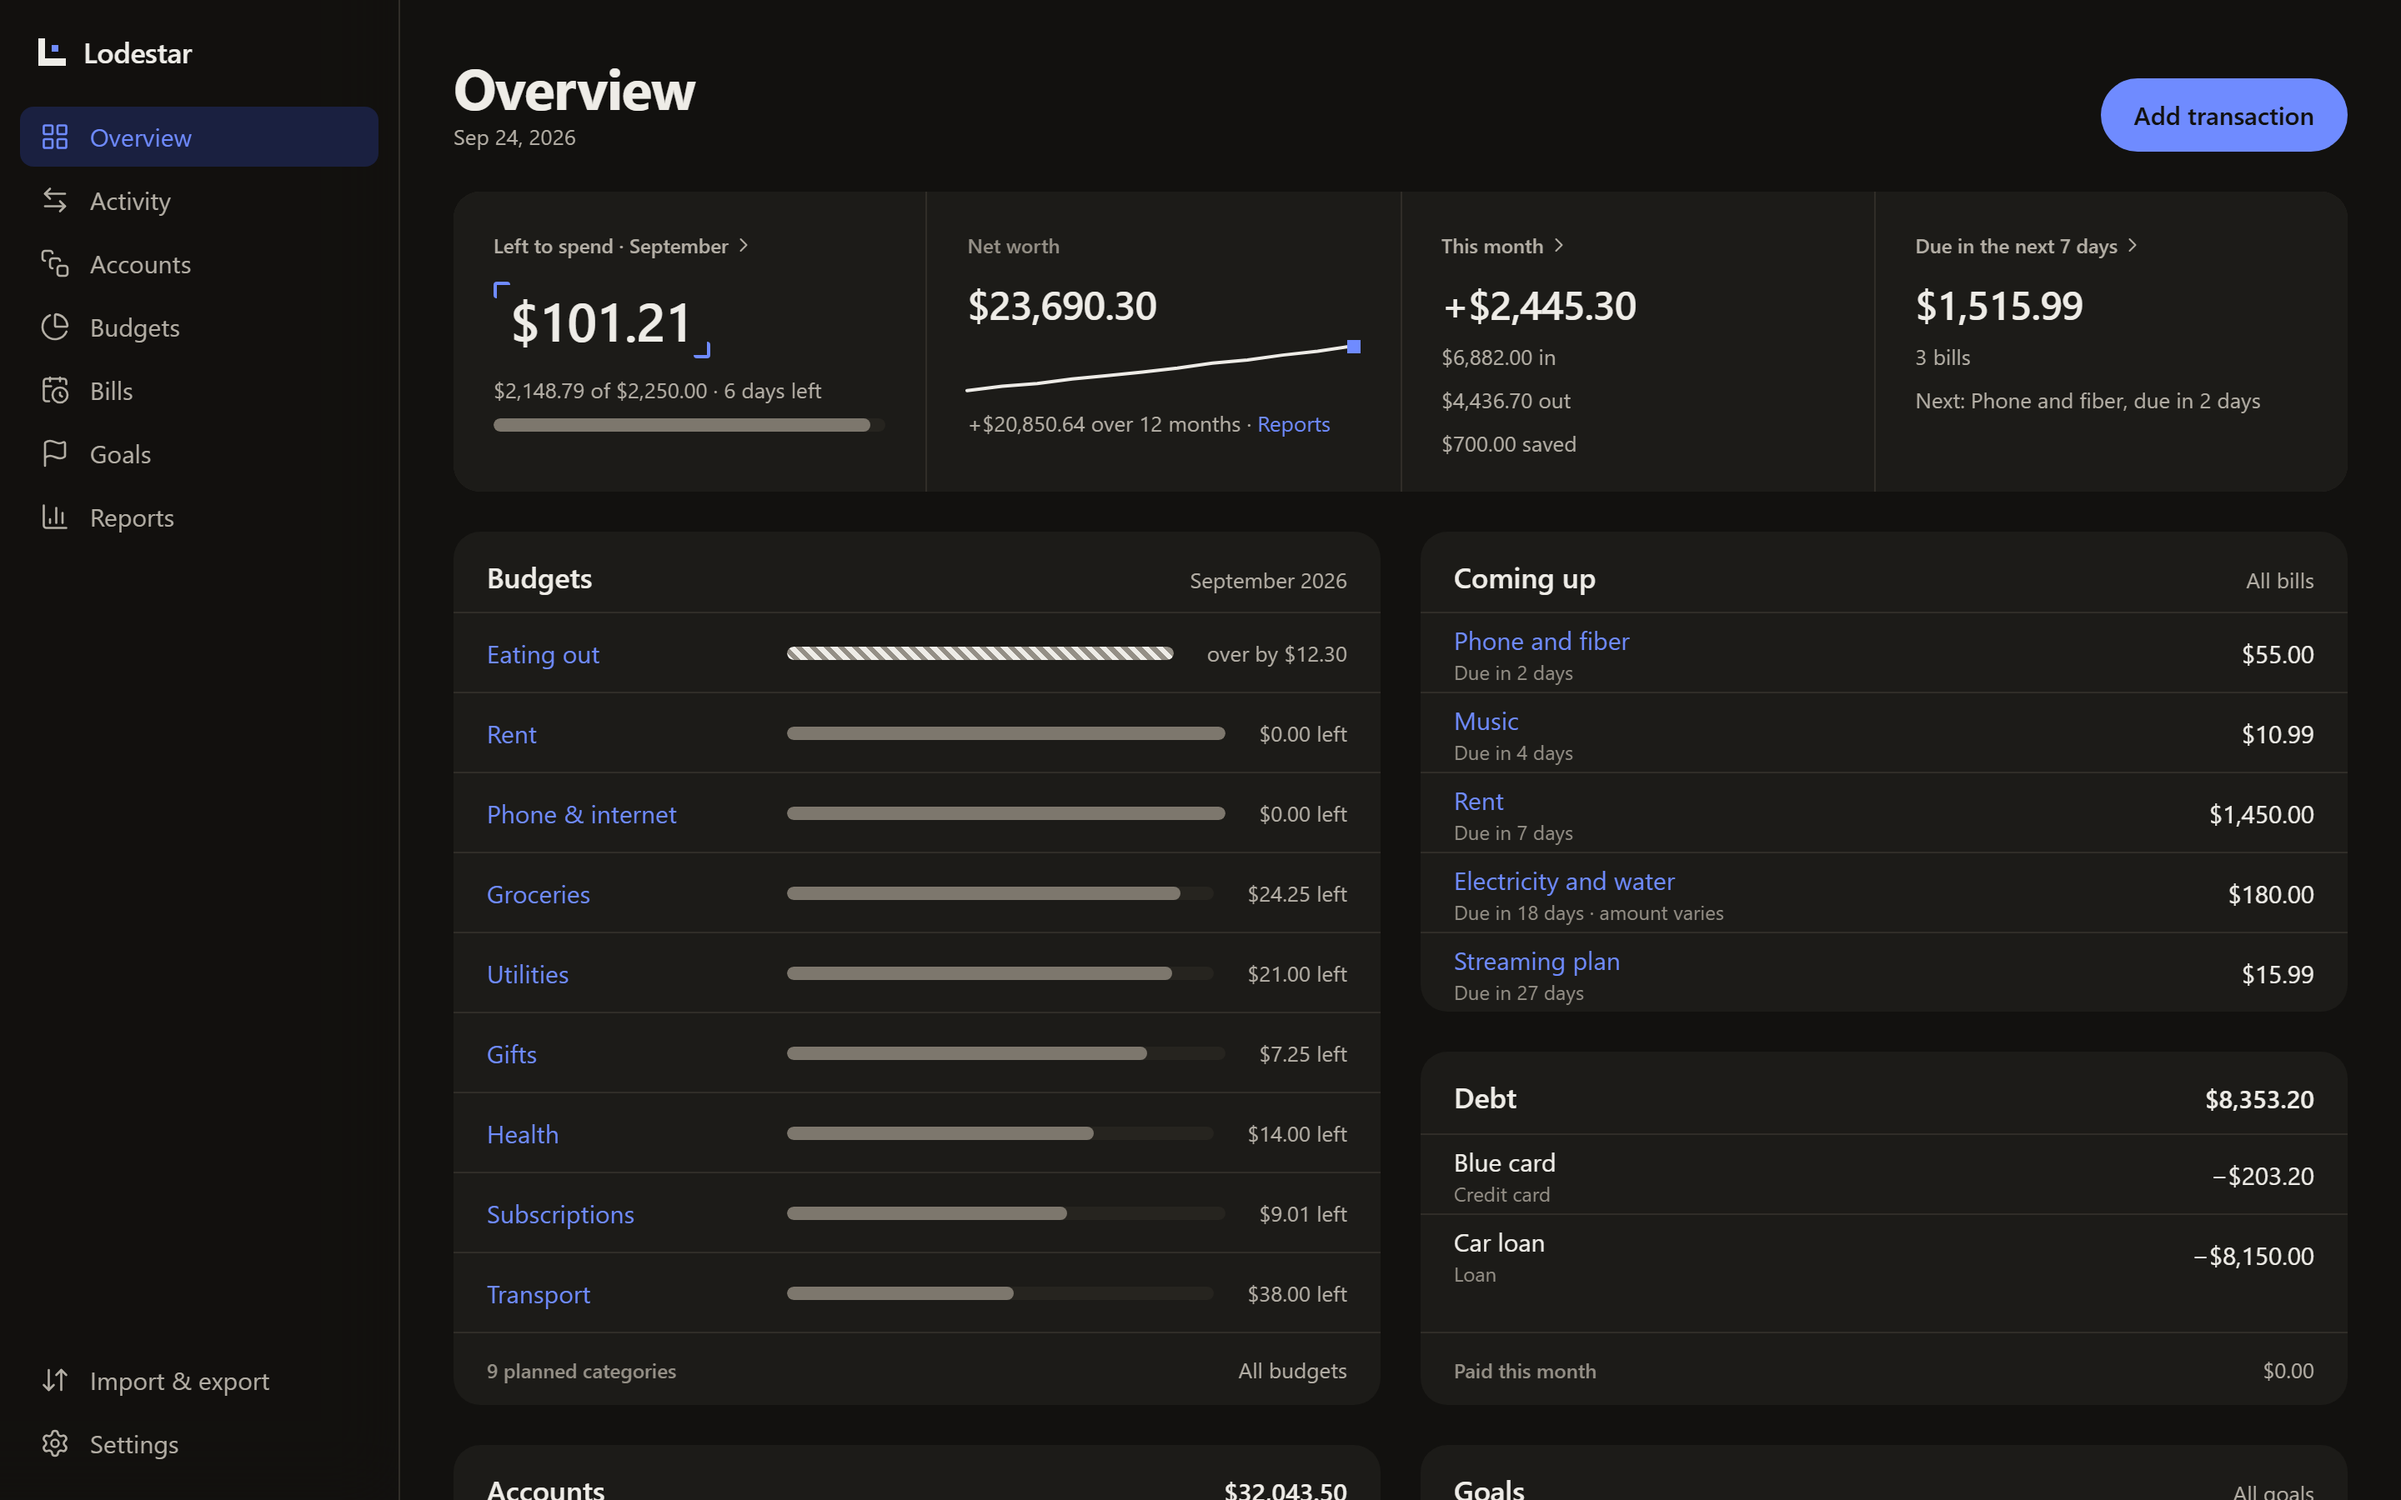
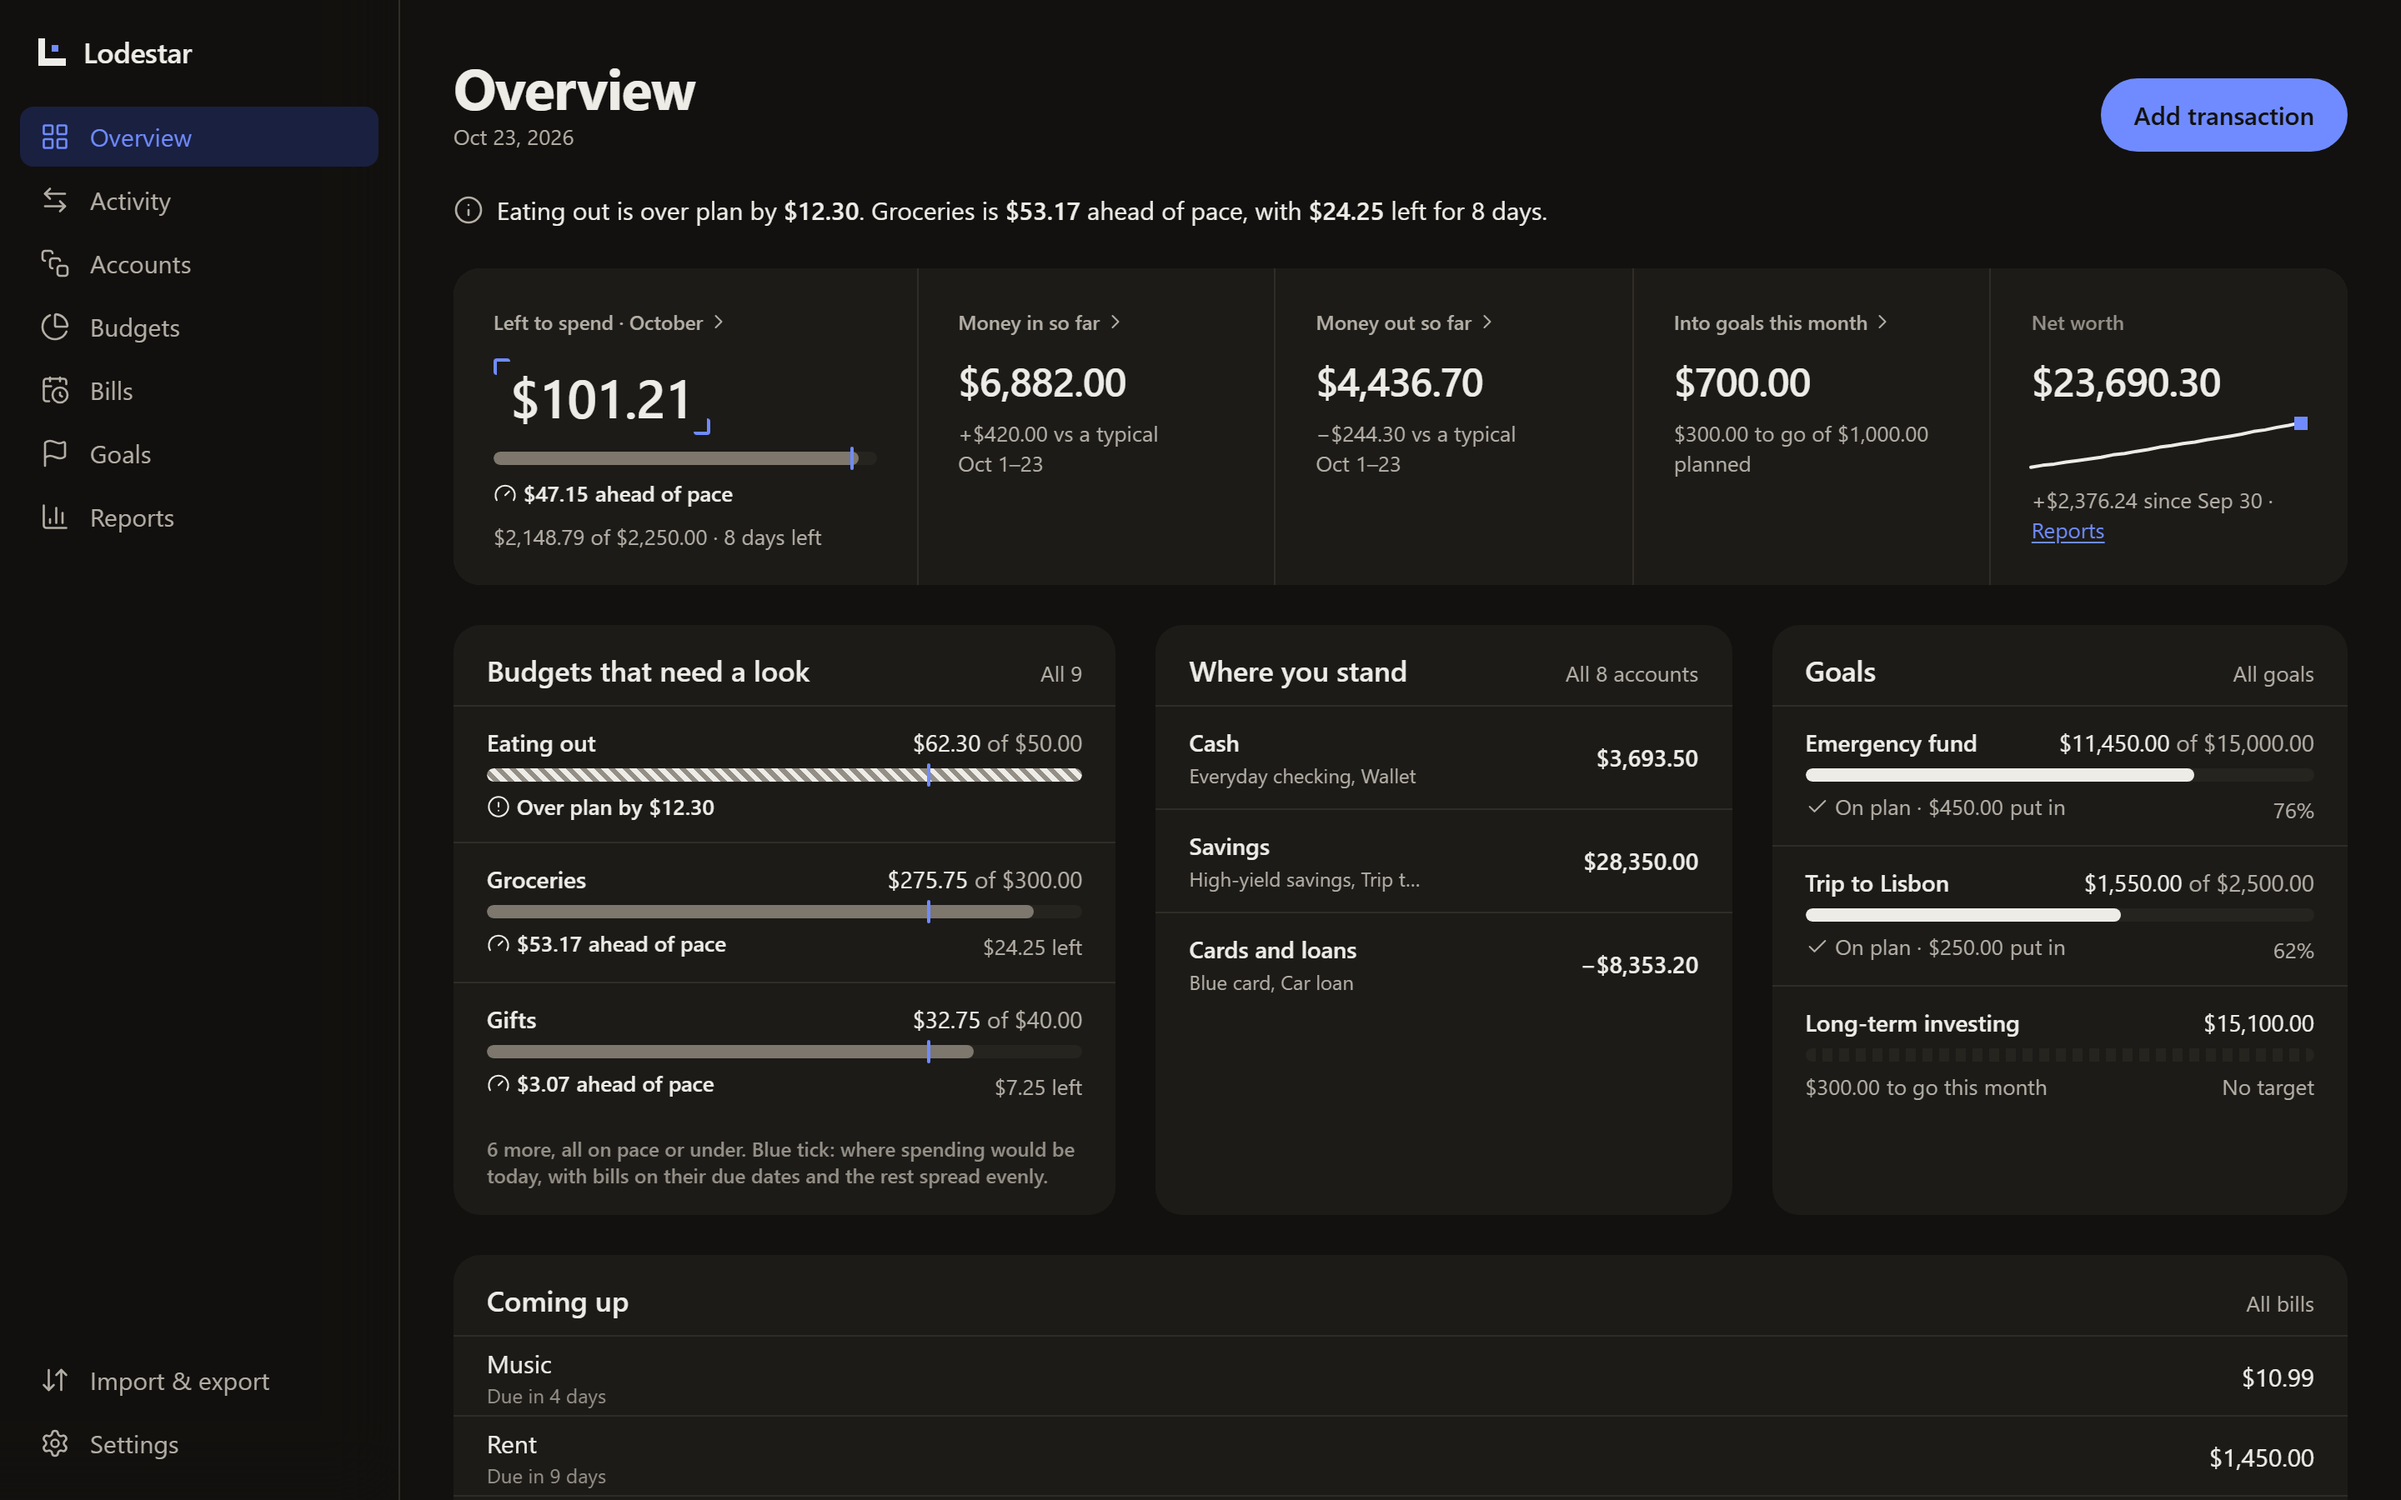
Refresh the README screenshots on a pinned mid-month day
E2E_TODAY pins the stub's today and pinClock the browser's, and the
README config sets it to the 23rd, so the Overview's pace reads the same
whatever day the pictures are retaken. The stub's budget_pace now counts
bills on their due dates, as the real function does, so rent paid on the
1st is on pace. The README's person has a second year, goal transfers,
and bills that match their payments.

diff --git a/scripts/readme/data.ts b/scripts/readme/data.ts
@@ -1,9 +1,10 @@
-import { emptyTables, USER_ID, type Tables } from '../../e2e/fixtures';
+import { emptyTables, stubNow, USER_ID, type Tables } from '../../e2e/fixtures';
 
 // A made-up person's money, rich enough to fill every screen for the README.
 // Synthetic throughout: no real names, accounts or amounts.
 
-const now = new Date();
+// The screenshots pin today to the 23rd (see playwright.config.ts).
+const now = stubNow;
 const monthStart = (offset: number) => {
   const date = new Date(Date.UTC(now.getUTCFullYear(), now.getUTCMonth() - offset, 1));
   return date.toISOString().slice(0, 10);
@@ -11,6 +12,8 @@ const monthStart = (offset: number) => {
 const thisMonth = monthStart(0);
 const day = (d: number) => `${thisMonth.slice(0, 8)}${String(Math.min(d, now.getUTCDate())).padStart(2, '0')}`;
 const inDays = (n: number) => new Date(now.getTime() + n * 86_400_000).toISOString().slice(0, 10);
+// The same day next month, for a bill already paid this month.
+const nextMonth = (d: number) => `${monthStart(-1).slice(0, 8)}${String(d).padStart(2, '0')}`;
 
 const stamp = { created_at: '2026-01-01T00:00:00Z', updated_at: '2026-01-01T00:00:00Z' };
 
@@ -67,6 +70,14 @@ const txnList: Txn[] = [
   [1, 'income', 323100, 'Payroll', null, 'acc-chk', 'cat-salary'],
 ];
 
+// Payments made through Mark as paid, by description.
+const paidBills: Record<string, string> = {
+  Rent: 'bill-1',
+  'Phone and fiber': 'bill-2',
+  'Electricity and water': 'bill-3',
+  'Streaming plan': 'bill-4',
+};
+
 // Planned and spent this month, per category.
 const budgetList: [category: string, planned: number, spent: number][] = [
   ['cat-rent', 145000, 145000],
@@ -80,12 +91,16 @@ const budgetList: [category: string, planned: number, spent: number][] = [
   ['cat-gifts', 4000, 3275],
 ];
 
-// Twelve months of money in and out, newest first, as the view returns them.
-const flow = [
+// Twelve months of money in and out, newest first, as the view returns them,
+// then the year before at a lower salary, so Reports has a period to compare.
+const recent = [
   [688200, 443670], [646200, 468100], [662400, 431900], [646200, 512300],
   [701500, 455800], [646200, 470200], [646200, 489600], [598000, 452100],
   [646200, 438700], [612400, 501200], [646200, 447300], [580000, 466900],
 ];
+const flow = [...recent, ...recent.map(([moneyIn, moneyOut], k) => [moneyIn - 31000 - (k % 3) * 4000, moneyOut - 12000 + (k % 4) * 5000])];
+// Into goal accounts each month: the two monthly transfers, less in the first year.
+const toGoalsAt = (offset: number) => (offset < 12 ? 70000 : 55000);
 
 export function readmeTables(): Tables {
   const tables = emptyTables();
@@ -113,7 +128,7 @@ export function readmeTables(): Tables {
     id: `0c000000-0000-4000-8000-${String(index + 1).padStart(12, '0')}`,
     user_id: USER_ID, kind, occurred_on: day(d), amount_minor: amount, from_account_id: from, to_account_id: to,
     category_id: category, category_kind: category ? categoryList.find((c) => c[0] === category)![2] : null,
-    description, notes: null, recurring_item_id: null, import_batch_id: null, source_ref: null, ...stamp,
+    description, notes: null, recurring_item_id: paidBills[description] ?? null, import_batch_id: null, source_ref: null, ...stamp,
   }));
 
   tables.budget_progress = budgetList.map(([category, planned, spent], index) => {
@@ -136,20 +151,24 @@ export function readmeTables(): Tables {
     goal('goal-3', 'acc-inv', 'Long-term investing', null, null, 30000, 1510000, 0, 2),
   ];
 
-  const bill = (id: string, name: string, label: string, amount: number, category: string, due: string, unit = 'month', variable = false) => ({
+  // Each bill keeps its day of the month; the ones paid this month are next
+  // due on that day next month, as Mark as paid leaves them.
+  const bill = (id: string, name: string, label: string, amount: number, category: string, anchor: string, due: string, unit = 'month', variable = false) => ({
     id, user_id: USER_ID, name, label, kind: 'expense', amount_minor: amount, amount_is_variable: variable,
     from_account_id: label === 'subscription' ? 'acc-card' : 'acc-chk', to_account_id: null, category_id: category,
-    category_kind: 'expense', cadence_unit: unit, cadence_interval: 1, anchor_on: due, next_due_on: due,
+    category_kind: 'expense', cadence_unit: unit, cadence_interval: 1, anchor_on: anchor, next_due_on: due,
     ends_on: null, archived_at: null, ...stamp,
   });
   tables.recurring_items = [
-    bill('bill-1', 'Phone and fiber', 'bill', 5500, 'cat-internet', inDays(2)),
-    bill('bill-2', 'Music', 'subscription', 1099, 'cat-subs', inDays(4)),
-    bill('bill-3', 'Rent', 'bill', 145000, 'cat-rent', inDays(7)),
-    bill('bill-4', 'Electricity and water', 'bill', 18000, 'cat-utilities', inDays(18), 'month', true),
-    bill('bill-5', 'Streaming plan', 'subscription', 1599, 'cat-subs', inDays(27)),
-    bill('bill-6', 'Cloud storage', 'subscription', 9999, 'cat-subs', inDays(140), 'year'),
+    bill('bill-1', 'Rent', 'bill', 145000, 'cat-rent', '2026-01-01', nextMonth(1)),
+    bill('bill-2', 'Phone and fiber', 'bill', 5500, 'cat-internet', '2026-01-10', nextMonth(10)),
+    bill('bill-3', 'Electricity and water', 'bill', 18000, 'cat-utilities', '2026-01-12', nextMonth(12), 'month', true),
+    bill('bill-4', 'Streaming plan', 'subscription', 1599, 'cat-subs', '2026-01-21', nextMonth(21)),
+    bill('bill-5', 'Music', 'subscription', 1099, 'cat-subs', '2026-01-27', `${thisMonth.slice(0, 8)}27`),
+    bill('bill-6', 'Cloud storage', 'subscription', 9999, 'cat-subs', inDays(140), inDays(140), 'year'),
   ];
+  // In due order, as the app asks for them (the stub doesn't sort).
+  tables.recurring_items.sort((x, y) => String(x.next_due_on).localeCompare(String(y.next_due_on)));
 
   const toGoals = 70000;
   const [income, expense] = flow[0];
@@ -159,6 +178,8 @@ export function readmeTables(): Tables {
   }];
   tables.monthly_cash_flow = flow.map(([moneyIn, moneyOut], offset) => ({
     user_id: USER_ID, month: monthStart(offset), money_in_minor: moneyIn, money_out_minor: moneyOut, net_minor: moneyIn - moneyOut,
+    // Not a column of the view: the stub's report functions read it.
+    to_goals_minor: toGoalsAt(offset),
   }));
 
   const assets = tables.account_balances.filter((a) => !a.is_liability).reduce((s, a) => s + (a.balance_minor as number), 0);

diff --git a/scripts/readme/screenshots.spec.ts b/scripts/readme/screenshots.spec.ts
@@ -1,4 +1,4 @@
-import { signIn, stubSupabase, test } from '../../e2e/fixtures';
+import { pinClock, signIn, stubSupabase, test } from '../../e2e/fixtures';
 import { readmeTables } from './data';
 
 // The README's screenshots: the production build, driven through a real
@@ -27,6 +27,7 @@ for (const scheme of ['light', 'dark'] as const) {
         const phone = info.project.name === 'phone';
         if ((scheme === 'dark' || phone) && name !== 'overview') test.skip();
 
+        await pinClock(page);
         await signIn(page);
         await stubSupabase(page, { tables: readmeTables() });
         await page.goto(path);

diff --git a/scripts/readme/playwright.config.ts b/scripts/readme/playwright.config.ts
@@ -2,6 +2,10 @@ import { defineConfig, devices } from '@playwright/test';
 
 // Screenshots for the README, taken the same way the end-to-end tests run:
 // the production build against a stubbed Supabase. See screenshots.spec.ts.
+// Today is pinned to the 23rd of this month, so the Overview's pace and the
+// bills coming up read the same whatever day the pictures are retaken.
+process.env.E2E_TODAY ??= `${new Date().toISOString().slice(0, 7)}-23`;
+
 export default defineConfig({
   testDir: '.',
   testMatch: 'screenshots.spec.ts',

diff --git a/README.md b/README.md
@@ -21,7 +21,7 @@
 <p align="center">
   <picture>
     <source media="(prefers-color-scheme: dark)" srcset="docs/readme/overview-dark.png">
-    <img src="docs/readme/overview.png" alt="The Overview screen: left to spend this month, net worth, this month's money in and out, bills due, budgets and debts">
+    <img src="docs/readme/overview.png" alt="The Overview: left to spend this month against its pace, money in and out so far against a typical month, into goals, net worth, the budgets that need a look, where you stand, goals and bills coming up">
   </picture>
 </p>
 
@@ -65,7 +65,7 @@ Each person picks **USD or COP** at first run. Every amount uses that currency, 
   </tr>
   <tr>
     <td width="50%"><img src="docs/readme/accounts.png" alt="Accounts: every account and its balance, and net worth"></td>
-    <td width="50%"><img src="docs/readme/reports.png" alt="Reports: monthly cash flow and net worth charts"></td>
+    <td width="50%"><img src="docs/readme/reports.png" alt="Reports: the last 12 complete months against the year before, with cash flow and net worth charts and links to each report"></td>
   </tr>
   <tr>
     <td align="center"><sub>Accounts</sub></td>
